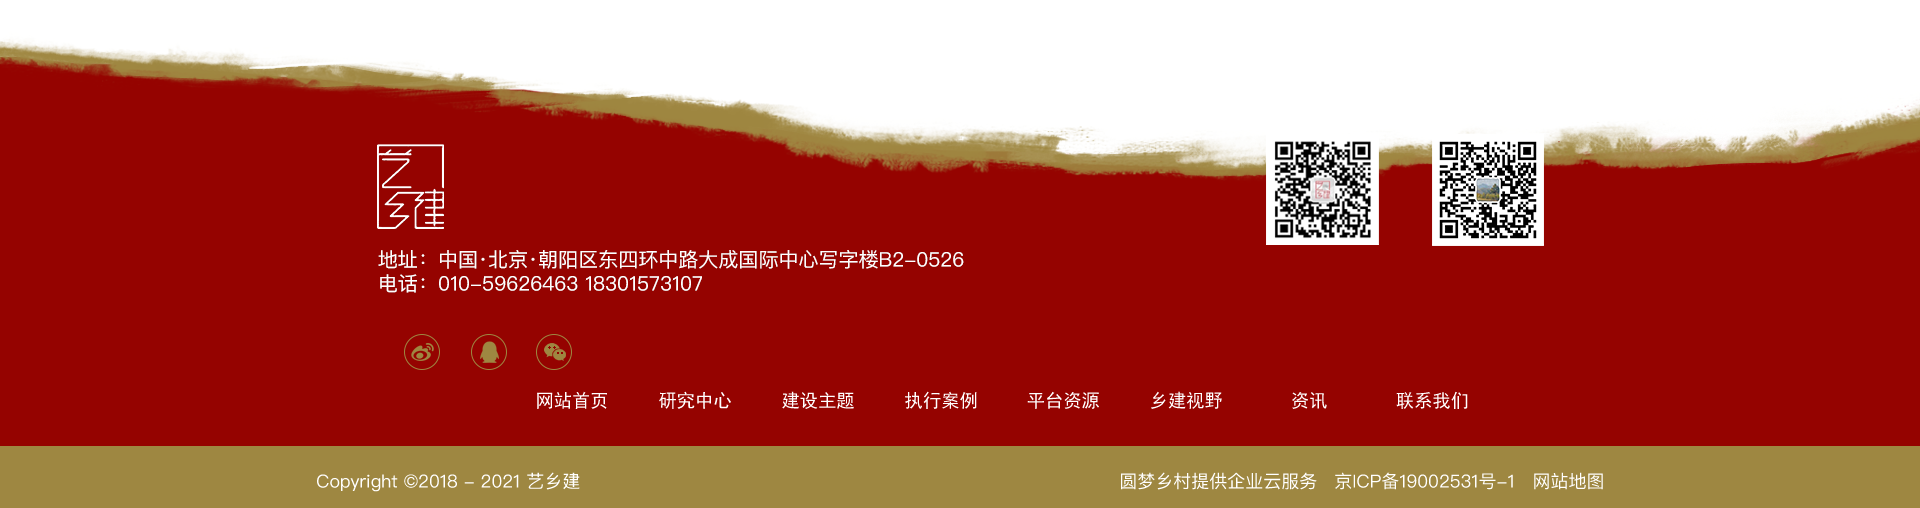
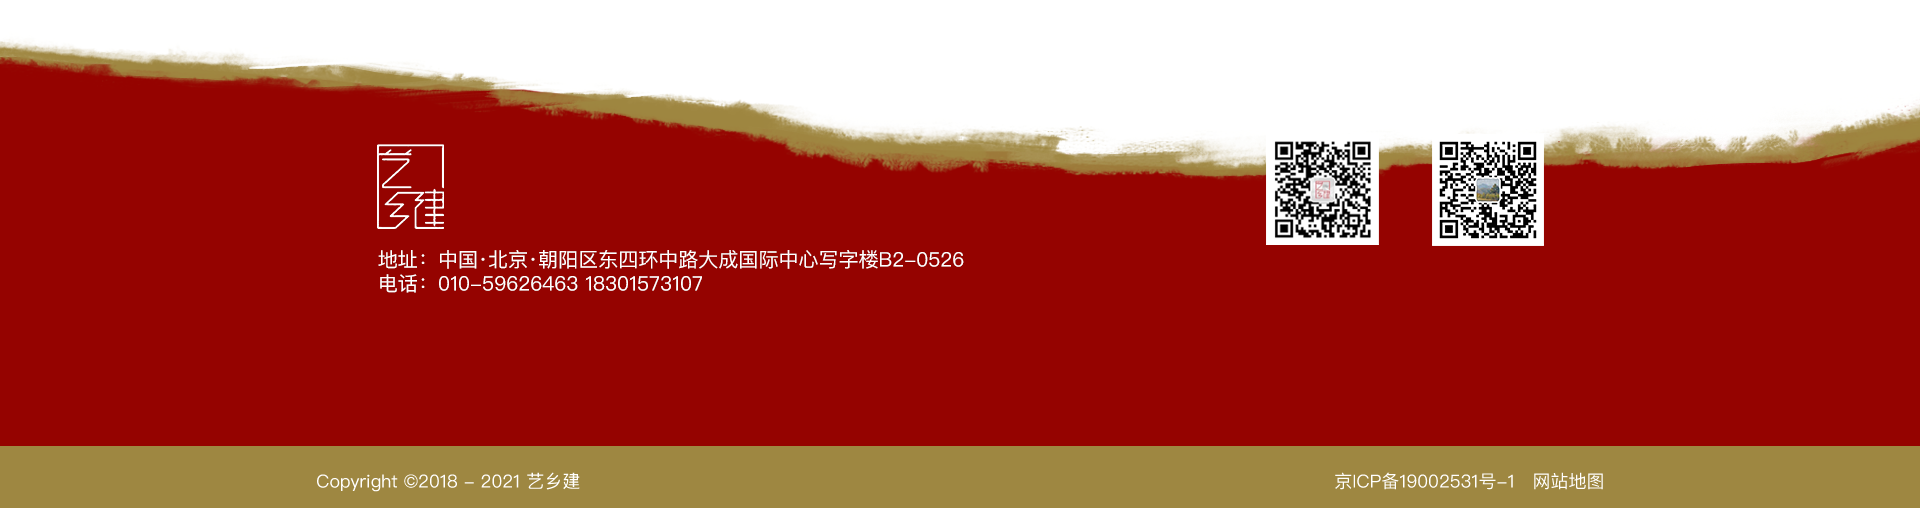
Update

diff --git a/resources/views/layout/footer.blade.php b/resources/views/layout/footer.blade.php
@@ -1,12 +1,24 @@
 <!--页尾--><!--联系方式-->
 <div id="ea_b">
-    {{--<div class="foot" >--}}
-        {{--<div class="foot_c" >--}}
-            <div style="background: url(/img/new_footer.png) no-repeat top center; width: 100%; height: 508px;">
-                {{--<img src="/img/under.png">--}}
-                {{--<img src="/img/bq.jpg">--}}
-            </div>
-
-        {{--</div>--}}
-    {{--</div>--}}
+    <div id="foot_box" style="background: url(/img/new_footer.png) no-repeat top center; width: 100%; height: 508px; position:relative">
+        <div id="foot_nav2" class="foot_nav2" style="position: absolute; bottom: 80px;">
+            <ul id="ShoveWebControl_VMenu4" class="foot_type2Ul foot_type2Ul_n000">
+                <li id="foot_type2Li_n0" level=0 index=0 class="">
+                    <a href="/" target="_self" style="color: white; font-size: 18px" style="color: white; font-size: 18px" >首页</a>
+                </li>
+                <li id="foot_type2Li_n2" level=0 data_id="2" type="n" index=1 class="">
+                    <a href="{{ route('aboutUs') }}" target="_self" style="color: white; font-size: 18px"><span name="ShoveWebControl_VMenu4742724384|T_Navigates|Id|2|Name">研究中心</span></a></li>
+                <li id="foot_type2Li_n25" level=0 data_id="25" type="n" index=2 class="">
+                    <a href="{{ route('themes-village') }}" target="_self" style="color: white; font-size: 18px"><span name="ShoveWebControl_VMenu4561697075|T_Navigates|Id|25|Name">建设主题</span></a></li>
+                <li id="foot_type2Li_n4" level=0 data_id="4" type="n" index=3 class="">
+                    <a href="{{ route('projects.index', ['category_id' => 1]) }}" target="_self" style="color: white; font-size: 18px"><span name="ShoveWebControl_VMenu41631118472|T_Navigates|Id|4|Name">执行案例</span></a></li>
+                <li id="foot_type2Li_n3" level=0 data_id="3" type="n" index=4 class="">
+                    <a href="{{ route('platform-committee') }}" rel="nofollow" target="_self" style="color: white; font-size: 18px"><span name="ShoveWebControl_VMenu41132593381|T_Navigates|Id|3|Name">平台资源</span></a></li>
+                <li id="foot_type2Li_n27" level=0 data_id="27" type="n" index=5 class="">
+                    <a href="{{ route('view-internal-office') }}" rel="nofollow" target="_self" style="color: white; font-size: 18px"><span name="ShoveWebControl_VMenu4455471716|T_Navigates|Id|27|Name">乡建视野</span></a></li>
+                <li id="foot_type2Li_n7" level=0 data_id="7" type="n" index=7 class="">
+                    <a href="{{ route('contact') }}" rel="nofollow" target="_self" style="color: white; font-size: 18px"><span name="ShoveWebControl_VMenu4441751923|T_Navigates|Id|7|Name">联系我们</span></a></li>
+            </ul>
+        </div>
+    </div>
 </div>

diff --git a/resources/views/projects/aljs.blade.php b/resources/views/projects/aljs.blade.php
@@ -1,4 +1,3 @@
-
 <!DOCTYPE html>
 <html>
 <head>
@@ -92,6 +91,7 @@
                         <button class="btn btn-outline-success my-2 my-sm-0" type="submit">搜索</button>
                     </form>
                     <div class="clearfix"></div>
+
                     <div class="yiti-search clearfix" style="border-top: 2px solid #7F7F7F; margin-top: 20px">
                         <div class="h20"></div>
                         <a href="{{ route('projects.index', ['category_id' => 1]) }}" class="yiti-style1 yiti-style">概念规划</a>

diff --git a/resources/views/projects/register.blade.php b/resources/views/projects/register.blade.php
@@ -10,6 +10,7 @@
     <link rel="stylesheet" type="text/css" href="/css/verify.css">
     <script type="text/javascript" src="/js/jquery.min.js"></script>
     <script type="text/javascript" src="/js/verify.js" ></script>
+    <script src="https://stackpath.bootstrapcdn.com/bootstrap/4.3.1/js/bootstrap.min.js" integrity="sha384-JjSmVgyd0p3pXB1rRibZUAYoIIy6OrQ6VrjIEaFf/nJGzIxFDsf4x0xIM+B07jRM" crossorigin="anonymous"></script>
 
     <div id="ea_ba">
         <div id="products_banner" class="products_banner">
